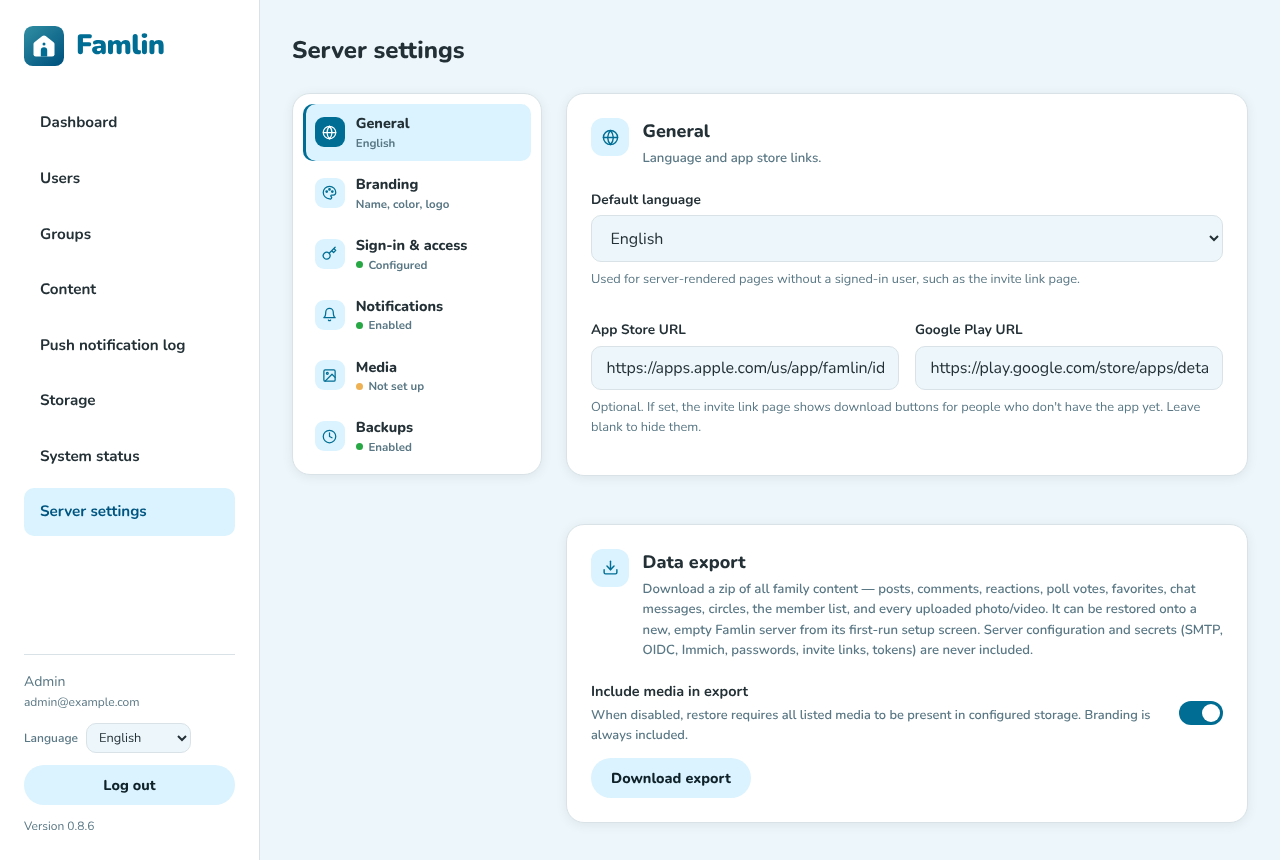
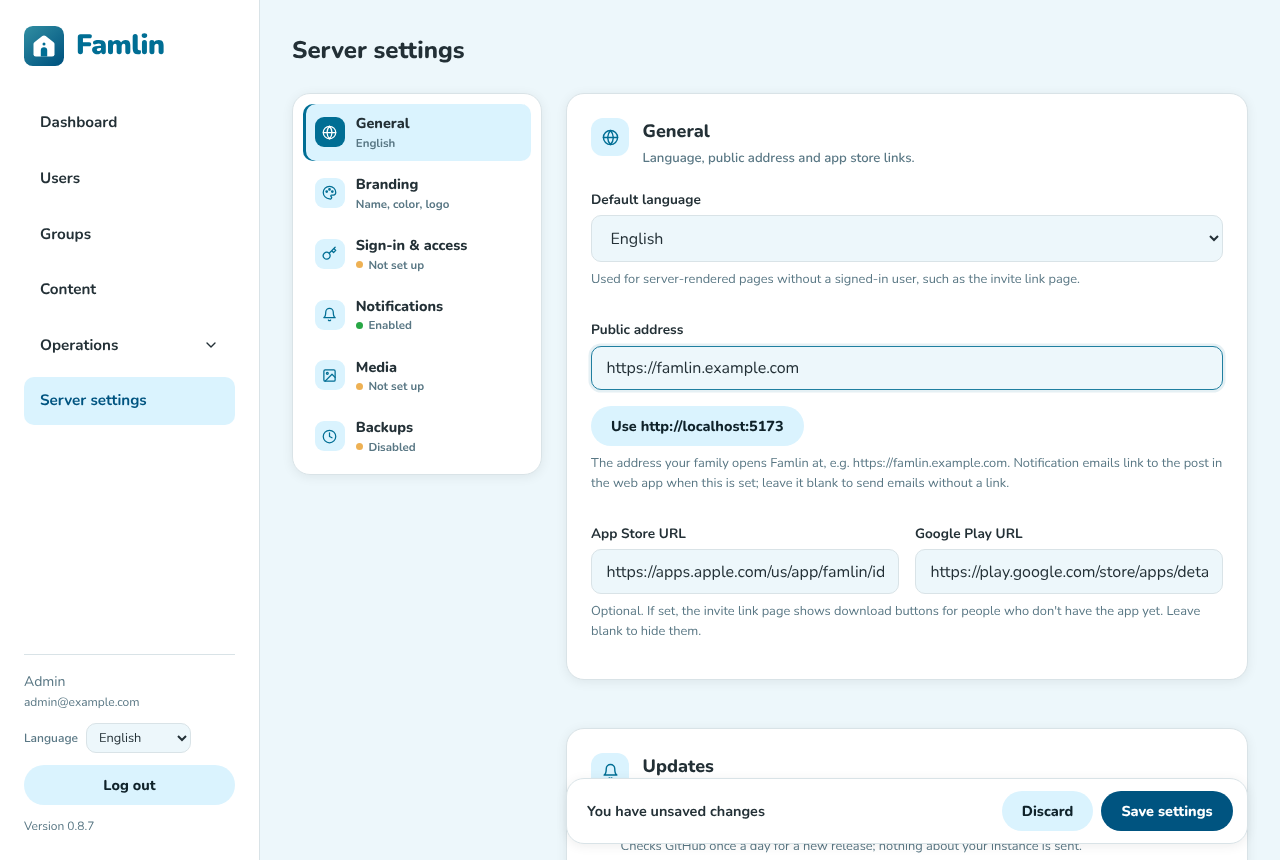
feat: link notification emails to the web app via a publicUrl setting
Notification emails had no link, and their origin can't be derived from
request.host like invite links: they're sent from the notifications
subscriber and jobs, with no request. A new optional `publicUrl` setting
(admin Server settings → General, with a button to use the current
address) supplies it. When set, emails end with a link to the post's
web-app page (/posts/:id, or /trips, /albums, /gift-lists by post type;
/photos for new album assets). Unset by default, so existing deployments
keep sending link-free emails until an admin opts in.

The link only names the post: recipients are already circle-filtered and
the web app re-checks access after sign-in.

Closes #243

Claude-Session: https://claude.ai/code/session_01NEXBvAvfQA7DrgkqPSyWQ2

diff --git a/backend/tests/notification-email-links.test.ts b/backend/tests/notification-email-links.test.ts
@@ -1,0 +1,161 @@
+import { describe, it, expect, beforeAll, afterAll, beforeEach, vi } from 'vitest'
+import type { FastifyInstance } from 'fastify'
+import { prisma } from '../src/db.js'
+import { emailChannel, notificationLink } from '../src/services/notificationChannels/email.js'
+import type { Recipient } from '../src/services/notificationChannels/types.js'
+import { getAllSettings, updateSettings } from '../src/services/settings.js'
+import { authHeader, buildTestApp, createGroupWithMember, createPost, createUser } from './helpers.js'
+
+const sendMail = vi.hoisted(() => vi.fn().mockResolvedValue({}))
+vi.mock('nodemailer', () => ({ default: { createTransport: () => ({ sendMail }) } }))
+
+const SMTP = { smtpHost: 'smtp.example.com', smtpUser: 'mailer', smtpPass: 'secret' }
+
+function recipient(email: string): Recipient {
+  return {
+    id: 'r1',
+    email,
+    emailOnNewPost: true,
+    emailOnNewComment: true,
+    emailOnNewLike: true,
+    pushOnNewPost: true,
+    pushOnNewComment: true,
+    pushOnNewLike: true,
+    pushOnChitchat: true,
+    pushOnStory: false,
+    pushOnGiftList: true,
+  }
+}
+
+describe('notificationLink', () => {
+  it('returns null while publicUrl is unset', () => {
+    expect(notificationLink('', { id: 'p1', type: 'UPDATE' }, 'new_post')).toBeNull()
+    expect(notificationLink('   ', null, 'on_this_day')).toBeNull()
+  })
+
+  it('links a post to its permalink, and trips/albums/gift lists to their own pages', () => {
+    const base = 'https://famlin.example.com/'
+    expect(notificationLink(base, { id: 'p1', type: 'UPDATE' }, 'new_post')).toBe('https://famlin.example.com/posts/p1')
+    expect(notificationLink(base, { id: 'p2', type: 'MILESTONE' }, 'new_comment')).toBe(
+      'https://famlin.example.com/posts/p2'
+    )
+    expect(notificationLink(base, { id: 't1', type: 'TRIP' }, 'new_comment')).toBe(
+      'https://famlin.example.com/trips/t1'
+    )
+    expect(notificationLink(base, { id: 'a1', type: 'ALBUM' }, 'new_like_post')).toBe(
+      'https://famlin.example.com/albums/a1'
+    )
+    expect(notificationLink(base, { id: 'g1', type: 'GIFT_LIST' }, 'new_post')).toBe(
+      'https://famlin.example.com/gift-lists/g1'
+    )
+  })
+
+  it('falls back to the Photos tab for new album assets and the app root otherwise', () => {
+    expect(notificationLink('https://famlin.example.com', null, 'new_media_assets')).toBe(
+      'https://famlin.example.com/photos'
+    )
+    // A post that was deleted between the event and the send.
+    expect(notificationLink('https://famlin.example.com', null, 'new_post')).toBe('https://famlin.example.com/')
+  })
+})
+
+describe('notification emails', () => {
+  beforeEach(() => {
+    sendMail.mockClear()
+  })
+
+  it('carries no link while publicUrl is unset', async () => {
+    const author = await createUser()
+    const group = await createGroupWithMember(author)
+    const post = await createPost({ groupId: group.id, authorId: author.id })
+    await updateSettings({ ...SMTP, publicUrl: '' })
+
+    await emailChannel.send({
+      type: 'new_post',
+      recipients: [recipient('a@example.com')],
+      message: 'Grandma shared a post',
+      settings: await getAllSettings(),
+      postId: post.id,
+    })
+
+    expect(sendMail).toHaveBeenCalledTimes(1)
+    const { text } = sendMail.mock.calls[0][0]
+    expect(text).toContain('Grandma shared a post')
+    expect(text).not.toContain('http')
+  })
+
+  it("links to the post's page in the web app once publicUrl is set", async () => {
+    const author = await createUser()
+    const group = await createGroupWithMember(author)
+    const post = await createPost({ groupId: group.id, authorId: author.id })
+    const trip = await prisma.post.create({
+      data: { groupId: group.id, authorId: author.id, content: '', type: 'TRIP', typeData: { title: 'Rome' } },
+    })
+    await updateSettings({ ...SMTP, publicUrl: 'https://famlin.example.com/' })
+
+    const settings = await getAllSettings()
+    expect(settings.publicUrl).toBe('https://famlin.example.com')
+
+    await emailChannel.send({
+      type: 'new_post',
+      recipients: [recipient('a@example.com'), recipient('b@example.com')],
+      message: 'Grandma shared a post',
+      settings,
+      postId: post.id,
+    })
+    await emailChannel.send({
+      type: 'new_comment',
+      recipients: [recipient('a@example.com')],
+      message: 'Grandpa commented',
+      settings,
+      postId: trip.id,
+    })
+
+    expect(sendMail).toHaveBeenCalledTimes(3)
+    expect(sendMail.mock.calls[0][0].text).toContain(`https://famlin.example.com/posts/${post.id}`)
+    expect(sendMail.mock.calls[1][0].text).toContain(`https://famlin.example.com/posts/${post.id}`)
+    expect(sendMail.mock.calls[2][0].text).toContain(`https://famlin.example.com/trips/${trip.id}`)
+  })
+})
+
+describe('PATCH /api/admin/settings publicUrl', () => {
+  let app: FastifyInstance
+
+  beforeAll(async () => {
+    app = await buildTestApp()
+  })
+
+  afterAll(async () => {
+    await app.close()
+  })
+
+  async function patch(publicUrl: string) {
+    const admin = await createUser({ isAdmin: true })
+    return app.inject({
+      method: 'PATCH',
+      url: '/api/admin/settings',
+      headers: authHeader(admin),
+      payload: { publicUrl },
+    })
+  }
+
+  it('stores an http(s) origin without its trailing slash, and clears it', async () => {
+    const res = await patch('https://famlin.example.com:8443/')
+    expect(res.statusCode).toBe(200)
+    expect(res.json().publicUrl).toBe('https://famlin.example.com:8443')
+    const row = await prisma.setting.findUnique({ where: { key: 'publicUrl' } })
+    expect(row?.value).toBe('https://famlin.example.com:8443')
+
+    const cleared = await patch('')
+    expect(cleared.statusCode).toBe(200)
+    expect(cleared.json().publicUrl).toBe('')
+  })
+
+  it.each(['not a url', 'ftp://famlin.example.com', 'https://famlin.example.com/famlin', 'https://x.example.com/?a=1'])(
+    'rejects %s',
+    async (value) => {
+      const res = await patch(value)
+      expect(res.statusCode).toBe(400)
+    }
+  )
+})

diff --git a/backend/src/services/notificationChannels/email.ts b/backend/src/services/notificationChannels/email.ts
@@ -1,4 +1,5 @@
 import nodemailer from 'nodemailer'
+import { prisma } from '../../db.js'
 import i18n from '../../i18n/index.js'
 import { getAllSettings } from '../settings.js'
 import type { NotificationChannel, NotifyType, Recipient } from './types.js'
@@ -17,6 +18,35 @@ const EMAIL_PREF_FIELD: Partial<Record<NotifyType, 'emailOnNewPost' | 'emailOnNe
   mention: 'emailOnNewComment',
   on_this_day: 'emailOnNewPost',
   new_media_assets: 'emailOnNewPost',
+}
+
+// Post types that open their own page in the web app instead of the generic
+// /posts/:id permalink (mirrors web/src/utils/routes.ts). The permalink would
+// hand these on anyway; linking directly just skips the redirect.
+const POST_TYPE_PATHS: Record<string, string> = {
+  TRIP: 'trips',
+  ALBUM: 'albums',
+  GIFT_LIST: 'gift-lists',
+}
+
+// The web-app link a notification email carries, or null when the admin
+// hasn't set the publicUrl setting (there is no request to derive an origin
+// from here). The link only names the post — the web app still requires
+// sign-in and applies the usual group/circle checks, and recipients were
+// already circle-filtered by notify(), so it exposes nothing new. A signed-out
+// reader lands back on it after logging in (rememberReturnPath in web/).
+export function notificationLink(
+  publicUrl: string,
+  post: { id: string; type: string } | null,
+  type: NotifyType
+): string | null {
+  const base = publicUrl.trim().replace(/\/+$/, '')
+  if (!base) return null
+  if (post) return `${base}/${POST_TYPE_PATHS[post.type] ?? 'posts'}/${encodeURIComponent(post.id)}`
+  // new_media_assets is tied to an album, not a post — the Photos tab is
+  // where those assets show up.
+  if (type === 'new_media_assets') return `${base}/photos`
+  return `${base}/`
 }
 
 export async function createTransporter(settings?: Awaited<ReturnType<typeof getAllSettings>>) {
@@ -48,7 +78,7 @@ export const emailChannel: NotificationChannel = {
     return field ? recipient[field] : false
   },
 
-  async send({ recipients, message, settings }) {
+  async send({ type, recipients, message, settings, postId }) {
     const transporter = await createTransporter(settings)
     if (!transporter) return
 
@@ -57,7 +87,16 @@ export const emailChannel: NotificationChannel = {
     const subject = brandName
       ? t('notifications.emailSubjectBranded', { name: brandName })
       : t('notifications.emailSubject')
-    const body = t('notifications.emailBody', { message })
+    let link: string | null = null
+    if (settings.publicUrl) {
+      const post = postId
+        ? await prisma.post.findUnique({ where: { id: postId }, select: { id: true, type: true } })
+        : null
+      link = notificationLink(settings.publicUrl, post, type)
+    }
+    const body = link
+      ? t('notifications.emailBodyWithLink', { message, link })
+      : t('notifications.emailBody', { message })
 
     // Send in parallel so one slow/hanging recipient doesn't serialize the rest.
     await Promise.all(

diff --git a/backend/src/services/settings.ts b/backend/src/services/settings.ts
@@ -23,6 +23,11 @@ export interface ServerSettings {
   defaultLanguage: SupportedLanguage
   appStoreUrl: string
   playStoreUrl: string
+  // The address members reach this server at (e.g. https://famlin.example.com).
+  // Origins are otherwise derived per request (request.host), but
+  // notification emails are sent from a subscriber/job with no request, so
+  // links in them need this. '' = not configured: emails carry no link.
+  publicUrl: string
   allowedEmails: string[]
   oidcName: string
   oidcIssuer: string
@@ -65,6 +70,7 @@ const SETTING_KEYS: (keyof ServerSettings)[] = [
   'defaultLanguage',
   'appStoreUrl',
   'playStoreUrl',
+  'publicUrl',
   'allowedEmails',
   'oidcName',
   'oidcIssuer',
@@ -101,6 +107,11 @@ function serializeValue(key: keyof ServerSettings, value: unknown): string {
     // capitalization than the OIDC/login email arrives in.
     return Array.isArray(value) ? value.map((v) => String(v).toLowerCase().trim()).join(',') : String(value)
   }
+  if (key === 'publicUrl') {
+    return String(value ?? '')
+      .trim()
+      .replace(/\/+$/, '')
+  }
   return String(value ?? '')
 }
 
@@ -111,6 +122,9 @@ function parseValue(key: keyof ServerSettings, value: string): ServerSettings[ke
       .split(',')
       .map((s) => s.trim())
       .filter(Boolean)
+  }
+  if (key === 'publicUrl') {
+    return value.trim().replace(/\/+$/, '')
   }
   if (key === 'smtpPort') {
     const n = parseInt(value, 10)
@@ -161,6 +175,7 @@ async function loadAllSettings(): Promise<ServerSettings> {
       'playStoreUrl',
       map.has('playStoreUrl') ? map.get('playStoreUrl')! : DEFAULT_PLAY_STORE_URL
     ),
+    publicUrl: parseValue('publicUrl', map.get('publicUrl') || ''),
     allowedEmails: parseValue('allowedEmails', map.get('allowedEmails') || ''),
     oidcName: parseValue('oidcName', map.get('oidcName') || 'SSO'),
     oidcIssuer: parseValue('oidcIssuer', map.get('oidcIssuer') || ''),

diff --git a/backend/admin/src/components/ServerSettingsPage.tsx b/backend/admin/src/components/ServerSettingsPage.tsx
@@ -63,6 +63,7 @@ export function ServerSettingsPage() {
     defaultLanguage: 'en',
     appStoreUrl: '',
     playStoreUrl: '',
+    publicUrl: '',
     allowedEmails: [],
     oidcName: '',
     oidcIssuer: '',
@@ -332,6 +333,27 @@ export function ServerSettingsPage() {
                   </select>
                 </label>
                 <p className="hint">{t('serverSettings.defaultLanguageHint')}</p>
+                <label>
+                  {t('serverSettings.publicUrl')}
+                  <input
+                    type="url"
+                    value={form.publicUrl}
+                    onChange={(e) => updateField('publicUrl', e.target.value)}
+                    placeholder="https://famlin.example.com"
+                  />
+                </label>
+                {form.publicUrl !== window.location.origin && (
+                  <div className="settings-test-row">
+                    <button
+                      type="button"
+                      className="secondary"
+                      onClick={() => updateField('publicUrl', window.location.origin)}
+                    >
+                      {t('serverSettings.publicUrlUseCurrent', { url: window.location.origin })}
+                    </button>
+                  </div>
+                )}
+                <p className="hint">{t('serverSettings.publicUrlHint')}</p>
                 <div className="row">
                   <label style={{ flex: 1 }}>
                     {t('serverSettings.appStoreUrl')}

diff --git a/backend/src/types.ts b/backend/src/types.ts
@@ -353,6 +353,32 @@ export const updateServerSettingsBodySchema = z.object({
   defaultLanguage: z.enum(SUPPORTED_LANGUAGES).optional(),
   appStoreUrl: z.union([z.literal(''), z.string().url()]).optional(),
   playStoreUrl: z.union([z.literal(''), z.string().url()]).optional(),
+  // Where members reach this server — the base of links in notification
+  // emails (services/notificationChannels/email.ts). http(s) only, and an
+  // origin rather than a path: the web app is always served at `/`.
+  publicUrl: z
+    .union([
+      z.literal(''),
+      z
+        .string()
+        .trim()
+        .url()
+        .refine((value) => {
+          // zod still runs this refinement after .url() has failed, so a
+          // non-URL must not reach `new URL()` (it throws → a 500).
+          if (!URL.canParse(value)) return false
+          const url = new URL(value)
+          return (
+            (url.protocol === 'https:' || url.protocol === 'http:') &&
+            url.pathname.replace(/\/+$/, '') === '' &&
+            !url.search &&
+            !url.hash &&
+            !url.username &&
+            !url.password
+          )
+        }, 'Must be an http(s) address without a path'),
+    ])
+    .optional(),
   allowedEmails: z.array(z.string().email()).optional(),
   oidcName: z.string().max(50).optional(),
   oidcIssuer: z.string().optional(),

diff --git a/backend/admin/src/types.ts b/backend/admin/src/types.ts
@@ -54,6 +54,7 @@ export interface ServerSettings {
   defaultLanguage: string
   appStoreUrl: string
   playStoreUrl: string
+  publicUrl: string
   allowedEmails: string[]
   oidcName: string
   oidcIssuer: string

diff --git a/CLAUDE.md b/CLAUDE.md
@@ -109,12 +109,12 @@ Services live in `backend/src/services/` (`settings.ts`, `notifications.ts`, `in
 - **Per-family branding is derived server-side, applied verbatim by clients — and mobile can only apply it before a screen module loads.** One brand per server in four `Setting` rows (`brandPreset`/`brandColor`/`brandName`/`brandLogo`), written only by `/api/admin/branding*` (never the generic settings PATCH). `services/branding/palette.ts` is the one palette derivation (OKLCH, AA auto-darkening, semantic circle/milestone/trip hue shift); the `teal` preset returns today's exact tokens untouched, so unbranded = pixel-identical — keep it that way. The logo is content-addressed in `uploads/branding/`, served publicly at `/branding/*` and 404'd under `/uploads/branding/` (no `Upload` row). Web: `index.html` is served through `injectBrandingIntoHtml()` (`services/branding/css.ts`) and `web/src/utils/branding.ts` mirrors the same CSS-variable mapping — change both together; outside `web/src/index.css`, use the `--fam-*` variables, never a brand/semantic hex. **Mobile gotcha:** `colors` is mutated in place and captured by `StyleSheet.create()` at module load, so `mobile/index.js` → `src/branding/BrandedRoot.tsx` applies the cached brand *before* `require()`-ing `App`, and every authenticated screen is imported only from the lazily required `src/navigation/AuthenticatedScreens.tsx`. Don't statically import a main-app screen from `App.tsx` or from anything the login/invite screens load, and don't hardcode brand hexes in mobile — add a token to `constants/colors.ts`. A brand change reaches mobile on the next cold start; there's no reload.
 - **Group mutations live only in `admin.ts`.** `groups.ts` is deliberately read-only — do not re-add create/update/delete or member-management routes there.
 - **`requireAdmin` returns a boolean and sends the 403 itself.** Callers **must** `return` when it returns `true`, otherwise the handler keeps running after the response is sent.
-- **Runtime config is in the DB, not `.env`.** OIDC issuer/client ID/scopes, allowed emails, SMTP, Immich server URL/API key, the local-media root path (`localMediaPath`), and the server's `defaultLanguage`/`appStoreUrl`/`playStoreUrl` live in the `Setting` table (managed via the admin UI's "General"/"Media integrations" sections), read through `getAllSettings()` (`services/settings.ts`), which caches for 10s and is invalidated on write. Each media source is one server-level connection shared by every group — `getImmichSettings()`/`getLocalMediaSettings()` report whether it's `configured`; which albums are visible to which group is a separate per-group `MediaAlbumLink` row, not part of `Setting`. `defaultLanguage` is used both for server-rendered pages with no signed-in user (the `/invite/:token` landing page) and for notification push/email text, since recipients don't have a stored per-user language preference — see `getT`/`SUPPORTED_LANGUAGES` in `src/i18n/index.ts`. `appStoreUrl`/`playStoreUrl` are optional; when set (or defaulted), the invite landing page shows download buttons. Both default to the official pre-built apps whenever the setting has never been explicitly saved — `appStoreUrl` to `https://apps.apple.com/us/app/famlin/id6786783660` and `playStoreUrl` to `https://play.google.com/store/apps/details?id=be.xeweb.famlin` (package `be.xeweb.famlin` per `mobile/app.json`) — and an admin can still clear either one to hide that button, which is preserved as a real blank rather than falling back to the default (see the `map.has()` checks in `loadAllSettings()`, `services/settings.ts`). Only `DATABASE_URL`, `PORT`, `NODE_ENV`, `JWT_SECRET`, `TRUST_PROXY`, `READ_ONLY`, `UPLOADS_DIR`, `BACKUPS_DIR`, and `DATA_DIR` (all in `src/config.ts`; `DATA_DIR` defaults to `<cwd>/data`, local disk only, holds `secrets/jwt_secret`), plus the zero-config fallbacks resolved by `src/bootstrapEnv.ts` before validation (an unset/empty `JWT_SECRET` is generated once and persisted mode 0600 to `<DATA_DIR>/secrets/jwt_secret`; an unset `DATABASE_URL` is built from `POSTGRES_HOST`/`POSTGRES_PORT`/`POSTGRES_USER`/`POSTGRES_DB` and `POSTGRES_PASSWORD` or `POSTGRES_PASSWORD_FILE`, URL-encoded — `prisma.config.ts` repeats that derivation inline because the production image ships it without `src/`), and the media storage settings `STORAGE_DRIVER`/`S3_*`/`STORAGE_FALLBACK_*` (`services/storage/config.ts`, documented in `docs/docs/storage.md`), are startup env vars — `UPLOADS_DIR` is optional and defaults to `<cwd>/uploads`, the path the persistent volume mounts at; every module that touches uploaded media imports the resolved `uploadsDir` from `config.ts` rather than recomputing it from `process.cwd()`, so the override applies everywhere or nowhere (it exists so `test:docker` can keep a test run off the real media volume — see the `npm test` bullet above). `BACKUPS_DIR` follows the same contract (`backupsDir` from `config.ts`, default `<cwd>/backups`, where the `famlin-backups` volume mounts); `vitest.config.ts` points it at a temp directory. `TRUST_PROXY` (default `false`) must be `true` when (and only when) Famlin sits behind a reverse proxy that sets `X-Forwarded-Proto`/`X-Forwarded-Host`, otherwise those headers are ignored so a directly-exposed server can't have its origin spoofed.
+- **Runtime config is in the DB, not `.env`.** OIDC issuer/client ID/scopes, allowed emails, SMTP, Immich server URL/API key, the local-media root path (`localMediaPath`), and the server's `defaultLanguage`/`appStoreUrl`/`playStoreUrl`/`publicUrl` live in the `Setting` table (managed via the admin UI's "General"/"Media integrations" sections), read through `getAllSettings()` (`services/settings.ts`), which caches for 10s and is invalidated on write. Each media source is one server-level connection shared by every group — `getImmichSettings()`/`getLocalMediaSettings()` report whether it's `configured`; which albums are visible to which group is a separate per-group `MediaAlbumLink` row, not part of `Setting`. `defaultLanguage` is used both for server-rendered pages with no signed-in user (the `/invite/:token` landing page) and for notification push/email text, since recipients don't have a stored per-user language preference — see `getT`/`SUPPORTED_LANGUAGES` in `src/i18n/index.ts`. `appStoreUrl`/`playStoreUrl` are optional; when set (or defaulted), the invite landing page shows download buttons. Both default to the official pre-built apps whenever the setting has never been explicitly saved — `appStoreUrl` to `https://apps.apple.com/us/app/famlin/id6786783660` and `playStoreUrl` to `https://play.google.com/store/apps/details?id=be.xeweb.famlin` (package `be.xeweb.famlin` per `mobile/app.json`) — and an admin can still clear either one to hide that button, which is preserved as a real blank rather than falling back to the default (see the `map.has()` checks in `loadAllSettings()`, `services/settings.ts`). Only `DATABASE_URL`, `PORT`, `NODE_ENV`, `JWT_SECRET`, `TRUST_PROXY`, `READ_ONLY`, `UPLOADS_DIR`, `BACKUPS_DIR`, and `DATA_DIR` (all in `src/config.ts`; `DATA_DIR` defaults to `<cwd>/data`, local disk only, holds `secrets/jwt_secret`), plus the zero-config fallbacks resolved by `src/bootstrapEnv.ts` before validation (an unset/empty `JWT_SECRET` is generated once and persisted mode 0600 to `<DATA_DIR>/secrets/jwt_secret`; an unset `DATABASE_URL` is built from `POSTGRES_HOST`/`POSTGRES_PORT`/`POSTGRES_USER`/`POSTGRES_DB` and `POSTGRES_PASSWORD` or `POSTGRES_PASSWORD_FILE`, URL-encoded — `prisma.config.ts` repeats that derivation inline because the production image ships it without `src/`), and the media storage settings `STORAGE_DRIVER`/`S3_*`/`STORAGE_FALLBACK_*` (`services/storage/config.ts`, documented in `docs/docs/storage.md`), are startup env vars — `UPLOADS_DIR` is optional and defaults to `<cwd>/uploads`, the path the persistent volume mounts at; every module that touches uploaded media imports the resolved `uploadsDir` from `config.ts` rather than recomputing it from `process.cwd()`, so the override applies everywhere or nowhere (it exists so `test:docker` can keep a test run off the real media volume — see the `npm test` bullet above). `BACKUPS_DIR` follows the same contract (`backupsDir` from `config.ts`, default `<cwd>/backups`, where the `famlin-backups` volume mounts); `vitest.config.ts` points it at a temp directory. `TRUST_PROXY` (default `false`) must be `true` when (and only when) Famlin sits behind a reverse proxy that sets `X-Forwarded-Proto`/`X-Forwarded-Host`, otherwise those headers are ignored so a directly-exposed server can't have its origin spoofed.
 - **OIDC login works with any provider** (Google, Microsoft, Authentik, Keycloak, Auth0, ...) via standard discovery + JWKS verification (`jose`, see `plugins/auth.ts` `verifyOidcToken`/`getDiscovery`). By default, mobile and admin both do a public-client Authorization Code + PKCE flow directly against the provider (no client secret) and hand the resulting ID token to `POST /api/auth/oidc`; `GET /api/auth/oidc-config` is the public endpoint clients use to discover the issuer's endpoints (plus `usesClientSecret`/`mobileCallbackUrl`, see below). It respects `allowedEmails` — new accounts are only provisioned if the email is whitelisted (empty list = allow all); see `services/settings.ts` `isEmailAllowed`. All three OIDC entry points share one user-provisioning/token-issuing function, `completeOidcLogin()` in `services/oidcLogin.ts`.
 - **Google needs the optional `oidcClientSecret` setting, not the plain PKCE flow above.** Google's token endpoint rejects a secretless exchange, and its native/"iOS"/"Android" OAuth client types force `redirect_uri` onto a Google-generated `com.googleusercontent.apps.<id>` scheme rather than the app's own `famlin://` — a hard blocker since Famlin ships one shared pre-built Android app (`be.xeweb.famlin`) across many independent deployments, each with a different Google client and therefore a different mandated scheme that can't be baked into that shared binary. Setting `oidcClientSecret` switches both surfaces to a server-mediated exchange instead, so Google can be configured as one ordinary **Web application** client: the admin UI keeps its existing `https://.../admin/` redirect but POSTs the code to `POST /api/auth/oidc/exchange` instead of exchanging it itself; the mobile app authorizes against `mobileCallbackUrl` (an HTTPS URL under the deployment's own domain, from `GET /oidc-config`), and `GET /api/auth/oidc/mobile-callback` finishes the exchange server-side and 302s to `famlin://oidc-callback?handoff=<code>` — a real redirect_uri scheme change would break the deep link contract, so the token itself is never put in that URL's query string (would leak into access logs); the app redeems the one-time `handoff` code via `POST /api/auth/oidc/mobile-handoff` (`services/oidcHandoff.ts`, in-memory, single-use, 2-minute TTL — see `utils/oidcLogin.ts` in the mobile app).
 - **i18n is mandatory — no hardcoded UI strings.** Use `const { t } = useTranslation()` and keys. Locales (`en`, `nl`, `zh`): `mobile/src/i18n/locales/`, `web/src/i18n/locales/`, `backend/admin/src/i18n/locales/` and `backend/src/i18n/locales/`; `en.json` is the source, `nl.json`/`zh.json` the translations — `npm run check:locales` (repo root) verifies key and placeholder parity. Backend error messages use `getT(request)('errors.…')`. Adding a UI string means adding `en`, `nl` and `zh` keys. Weblate component type: **i18next JSON**; `fallbackLng` is `en`.
 - **Backend is ESM + `NodeNext`.** JSON imports need the attribute: `import x from './x.json' with { type: 'json' };`.
-- **Build public origins from `request.host`, never `request.hostname`.** Fastify 5 redefined `hostname` to exclude the port and added `host` as the port-carrying property (in Fastify 4, `hostname` carried it). Famlin has no `PUBLIC_URL` env var — invite links (`getPublicOrigin` in `routes/admin.ts`, `routes/invite-landing.ts`) and the OIDC origin/`redirect_uri` (`routes/auth.ts`) are all derived from the incoming request, so `hostname` would silently drop the port on any deployment not served on 80/443: invite links that don't resolve, and a `redirect_uri` that no longer matches the one registered at the provider. Both resolve `X-Forwarded-*` only when `TRUST_PROXY` is on, so neither is spoofable on a directly-exposed server. `tests/fastify-v5-compat.test.ts` pins it.
+- **Build public origins from `request.host`, never `request.hostname`.** Fastify 5 redefined `hostname` to exclude the port and added `host` as the port-carrying property (in Fastify 4, `hostname` carried it). Famlin has no `PUBLIC_URL` env var — the one exception is the optional `publicUrl` **setting** (admin General section, `''` = unset), used only by notification emails (`notificationLink()` in `services/notificationChannels/email.ts`) because they're sent with no request to derive an origin from; while it's unset emails carry no link. Invite links (`getPublicOrigin` in `routes/admin.ts`, `routes/invite-landing.ts`) and the OIDC origin/`redirect_uri` (`routes/auth.ts`) are all derived from the incoming request, so `hostname` would silently drop the port on any deployment not served on 80/443: invite links that don't resolve, and a `redirect_uri` that no longer matches the one registered at the provider. Both resolve `X-Forwarded-*` only when `TRUST_PROXY` is on, so neither is spoofable on a directly-exposed server. `tests/fastify-v5-compat.test.ts` pins it.
 - **`app.ts` drops a `Content-Type` header from requests that carry no body — don't remove that hook.** Fastify 5 runs the content-type parser for every body-carrying method (4 skipped it when the request had no body) and its JSON parser rejects an empty body with `FST_ERR_CTP_EMPTY_JSON_BODY`. axios sets `Content-Type: application/json` from its instance defaults on *every* request including bodyless `DELETE`s (`packages/api-client/src/client.ts`), so without the hook every delete/revoke/unregister call from the web app, the mobile app, and every already-installed client 400s before reaching its handler. The hook's emptiness test is Fastify's own (`isEmptyBody`: no `Transfer-Encoding` and no non-zero `Content-Length`), so it can't affect a request that has a body, and the default parser — with its prototype-poisoning protection — stays in place for everything else.
 - **Add/bump mobile native dependencies with `npx expo install <package>`, never by hand-editing `mobile/package.json`.** Expo precompiles native frameworks (RNReanimated etc.) against the exact versions in `expo/bundledNativeModules.json`; a manually pinned different version builds from source instead, and the resulting mixed precompiled/source linkage crashes the released app at launch (dyld "Library not loaded") while dev builds, `tsc`, and Jest all stay green — the worklets 0.10.2 incident. `npx expo install --check` guards this in both `ci.yml` (Mobile job) and `mobile-build.yml` (before the store build).
 - **Removing a group member keeps their existing posts/comments visible** to the remaining members (deliberate MVP choice), but **does** delete their `CircleMember` rows for that group's circles (`DELETE /api/admin/groups/:id/members/:userId`, one transaction). A circle only narrows group membership, so a circle membership outliving the group membership behind it would grant access the outer boundary has already revoked — including photos by direct `/uploads/` URL. It has to be an application-level cascade: `CircleMember` has no FK to `GroupMember`, so the database can't express it. Scoped to that group's circles only — circles in the user's other families are untouched.

diff --git a/docs/docs/admin-configuration.md b/docs/docs/admin-configuration.md
@@ -20,6 +20,7 @@ From `/admin` → Server settings you can then configure everything below. The p
 ![Server settings, General section](./img/admin-settings-general.png)
 
 - **Default language** (General): used for server-rendered pages that don't have a signed-in user yet (the invite link landing page, `/invite/:token`) and for the text of push notifications and emails. Choose English, Nederlands or 简体中文 (Simplified Chinese). Defaults to English.
+- **Public address** (General): the address your family opens Famlin at, for example `https://famlin.example.com` — just the scheme, host and (if it isn't 80/443) port, no path. When set, notification emails end with a link to the post in the web app (trips, albums and gift lists open their own page; new photos in a linked album open **Photos**). Someone who isn't signed in logs in first and then lands on that post, and the link still only works for people who are allowed to see it. Empty by default, in which case emails are sent without a link exactly as before. The **Use …** button fills in the address you're using the admin panel from; change it if that's an internal address (such as `http://192.168.1.10:3000`) your family can't reach from outside. Famlin needs this because emails are sent in the background, where there's no browser request to read the address from.
 - **App Store / Google Play URLs** (General): optional. If set, the invite link page shows download buttons for people who don't have the app yet; leave blank to hide them. Both default to the official pre-built apps ([App Store](https://apps.apple.com/us/app/famlin/id6786783660) and [Google Play](https://play.google.com/store/apps/details?id=be.xeweb.famlin)), so a fresh deployment already has working download links. Override either one if you build and distribute your own app instead, or clear it to hide that button.
 - **Check for new versions** (General → Updates): on by default. Once a day the server checks GitHub for a new Famlin release and shows an "update available" banner in the admin UI; nothing about your instance is sent. Turn it off to stop the check and hide the banner. See [Staying up to date](./maintenance.md#staying-up-to-date).
 - **Data export** (General): downloads a zip of all family content. **Include media in export** decides whether photos and videos go into the zip. See [Data export](./managing-users-and-content.md#data-export).

diff --git a/docs/developers/architecture.md b/docs/developers/architecture.md
@@ -232,7 +232,7 @@ A `PostTypeHandler` has four optional hooks beyond its `id` and `typeDataSchema`
 Domain events (`src/events.ts`) feed the notifications subscriber (`src/subscribers/notifications.ts`), which decides who gets told what — thread participants for comments, validated mentions, the target author for reactions — and calls `services/notifications.ts`. `notify()` always writes the in-app `Notification` history row, then fans out to **notification channels**: implementations of the `NotificationChannel` interface in `services/notificationChannels/` (per-channel `isEnabled()` server switch, per-recipient `wants()` preference check, `send()` delivery), registered in that directory's `index.ts`. Adding a delivery mechanism (Telegram, ntfy, ...) = one new file there. Channels run in parallel with per-channel error trapping, so one broken mechanism never blocks the others. Two ship today:
 
 - **`push`** via Expo's push service (requires a development/production build).
-- **`email`** via Nodemailer + SMTP, configurable per user with `emailOnNewPost`/`emailOnNewComment`/`emailOnNewLike`.
+- **`email`** via Nodemailer + SMTP, configurable per user with `emailOnNewPost`/`emailOnNewComment`/`emailOnNewLike`. When the admin has set the `publicUrl` setting, each email ends with a web-app link built by `notificationLink()` (`/posts/:id`, or `/trips/:id`/`/albums/:id`/`/gift-lists/:id` by post type, `/photos` for `new_media_assets`); the origin can't come from `request.host` as elsewhere, because emails are sent from the subscriber/jobs with no request. Unset (the default) = no link. The link names only the post, so it exposes nothing: recipients were already circle-filtered and the web app re-checks access.
 
 Both respect group membership: only members of the relevant group are notified, because the subscriber derives recipients from `GroupMember` before any channel runs.
 
